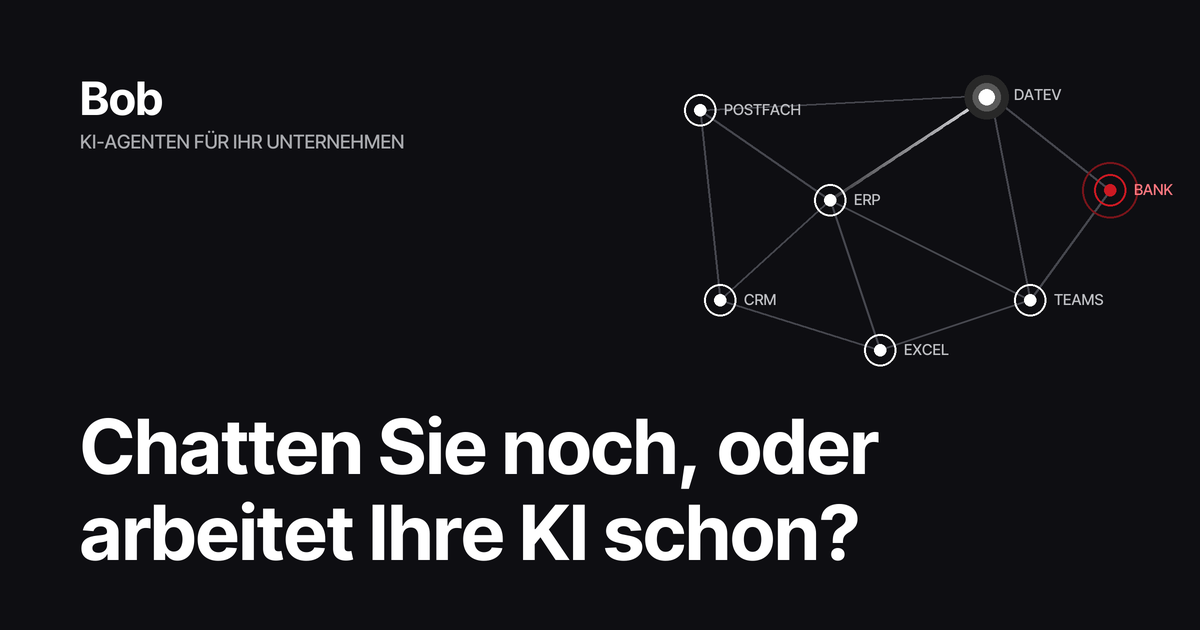
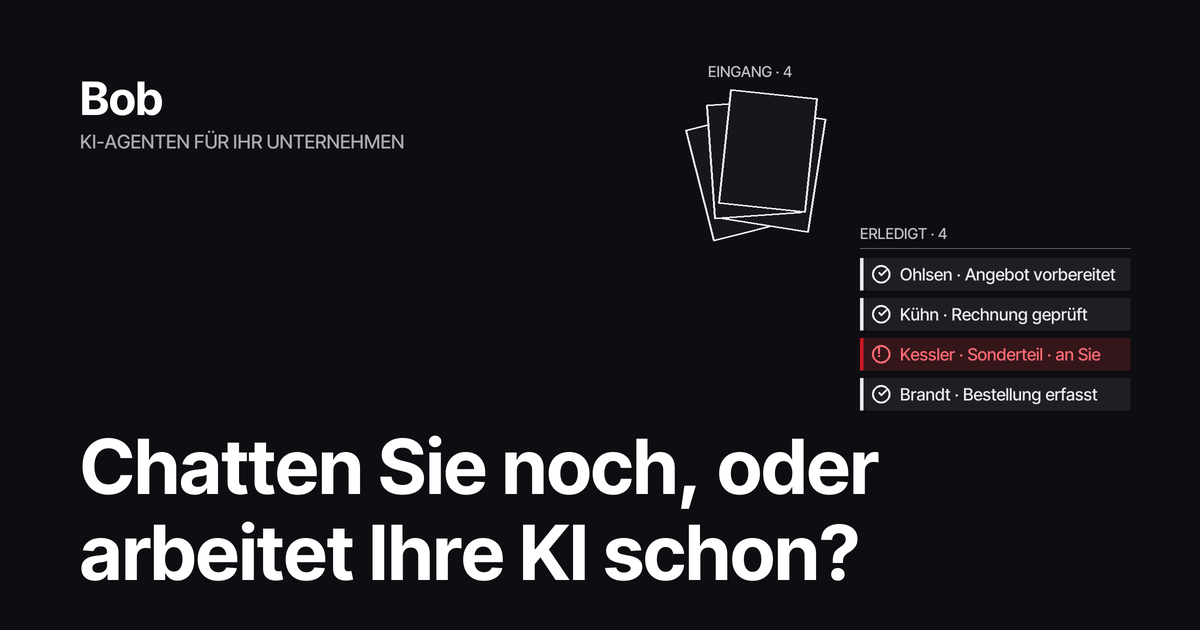
Aufmacher: Stapel wird zu Liste
Ein unordentlicher Stapel aus Mails, PDFs, Listen und Notizen; Bob zieht
Blatt für Blatt heraus und legt es als erledigte Zeile ab, ein Fall geht
rot an Sie. Liste als HTML für scharfen Text, Anordnung nach
Bildschirmbreite, am Handy vier Zeilen. Vorschaubild angepasst,
Versionsstempel auf Sekunden.

diff --git a/hero3d.js b/hero3d.js
@@ -1,96 +1,99 @@
-/* Aufmacher: Bob in Ihren Systemen. Knoten = Systeme, Bob wandert die Verbindungen entlang,
-   Abweichungen leuchten rot, Bob läuft hin und klärt sie. three.js r128, pausiert außerhalb des Sichtfelds. */
+/* Aufmacher: Stapel wird zu Liste. Ein unordentlicher Stapel aus Mails, PDFs, Listen und Notizen;
+   Bob zieht Blatt für Blatt heraus und legt es rechts als erledigte Zeile ab. Ein Fall geht rot an Sie.
+   three.js r128, Liste als HTML für scharfen Text, pausiert außerhalb des Sichtfelds. */
 (function(){
   var host=document.getElementById('hero3d');
-  if(!host||!window.THREE)return; var T=THREE;
-  var labels=document.createElement('div');labels.className='h-labels';host.appendChild(labels);
-  var logEl=document.createElement('ol');logEl.className='h-log';logEl.setAttribute('aria-hidden','true');(host.parentNode||host).appendChild(logEl);
+  if(!host||!window.THREE)return;var T=THREE;
   var reduce=window.matchMedia&&matchMedia('(prefers-reduced-motion: reduce)').matches;
   var renderer;try{renderer=new T.WebGLRenderer({antialias:true,alpha:true});}catch(e){return;}
   renderer.setPixelRatio(Math.min(devicePixelRatio||1,2));renderer.setClearColor(0,0);host.appendChild(renderer.domElement);
-  var scene=new T.Scene();scene.fog=new T.Fog(0x0e0e12,12,30);
+  var labels=document.createElement('div');labels.className='h-labels';host.appendChild(labels);
+  var scene=new T.Scene();scene.fog=new T.Fog(0x0e0e12,13,30);
   var camera=new T.PerspectiveCamera(34,1,.1,100),look=new T.Vector3(),camBase=new T.Vector3();
-  var WHITE=0xffffff,RED=0xcc1922;
   var grid=new T.GridHelper(60,60,0x24252b,0x18191e);grid.position.y=-3.2;scene.add(grid);
-  var world=new T.Group();scene.add(world);
-  var N=[['Postfach',1.0,2.1,.5],['ERP',3.3,.8,-.8],['DATEV',5.4,2.3,.2],['Teams',5.9,-.5,.9],['CRM',1.7,-1.1,1.1],['Excel',3.9,-2.1,-.4],['Bank',7.0,1.0,-1.2]];
-  var E=[[0,1],[0,4],[0,2],[1,2],[1,4],[1,5],[1,3],[2,6],[2,3],[3,5],[4,5],[6,3]];
-  var VISIT=['Anfragen gelesen','Preise und Termine geprüft','Rechnung kontiert','Innendienst informiert','Angebot nachgefasst','Liste abgeglichen','Zahlung zugeordnet'];
-  var ALERT=['Reklamation mit Frist','Liefertermin verschoben','Rechnung ohne Bestellung','Freigabe offen','Angebot läuft aus','Preis weicht ab','Zahlung fehlt'];
-  var nodes=N.map(function(n,i){
-    var g=new T.Group();g.position.set(n[1],n[2],n[3]);
-    var core=new T.Mesh(new T.SphereGeometry(.11,24,16),new T.MeshBasicMaterial({color:WHITE}));
-    var ring=new T.Mesh(new T.RingGeometry(.26,.285,48),new T.MeshBasicMaterial({color:WHITE,transparent:true,opacity:.35,side:T.DoubleSide}));
-    var pulse=new T.Mesh(new T.RingGeometry(.26,.3,48),new T.MeshBasicMaterial({color:WHITE,transparent:true,opacity:0,side:T.DoubleSide}));
-    g.add(core,ring,pulse);world.add(g);
-    var el=document.createElement('div');el.className='h-lb';el.textContent=n[0];labels.appendChild(el);
-    return {name:n[0],g:g,core:core,ring:ring,pulse:pulse,p:0,el:el,alert:false,nb:[]};
-  });
-  E.forEach(function(e){nodes[e[0]].nb.push(e[1]);nodes[e[1]].nb.push(e[0]);});
-  var edgeMat=new T.LineBasicMaterial({color:WHITE,transparent:true,opacity:.18});
-  E.forEach(function(e){var a=nodes[e[0]].g.position,b=nodes[e[1]].g.position;world.add(new T.Line(new T.BufferGeometry().setFromPoints([a,b]),edgeMat));});
-  /* Glow-Textur für Bob */
+  var MONO='"IBM Plex Mono", ui-monospace, monospace';
+  function docTex(kind,red){var c=document.createElement('canvas');c.width=256;c.height=340;var x=c.getContext('2d');
+    x.fillStyle='rgba(22,23,29,0.94)';x.fillRect(0,0,256,340);x.strokeStyle=red?'#CC1922':'rgba(255,255,255,0.9)';x.lineWidth=5;x.strokeRect(4,4,248,332);
+    x.fillStyle=red?'#FF4D57':'#fff';x.font='600 30px '+MONO;x.fillText(kind,22,52);
+    x.fillStyle='rgba(255,255,255,0.28)';[[86,190],[118,150],[150,200],[182,120],[214,170],[246,140]].forEach(function(r){x.fillRect(22,r[0],r[1],10);});
+    if(kind==='MAIL'){x.strokeStyle='rgba(255,255,255,0.5)';x.lineWidth=3;x.strokeRect(170,24,62,42);x.beginPath();x.moveTo(170,24);x.lineTo(201,48);x.lineTo(232,24);x.stroke();}
+    if(kind==='XLS'){x.strokeStyle='rgba(255,255,255,0.35)';x.lineWidth=2;for(var r2=0;r2<4;r2++)for(var c2=0;c2<4;c2++)x.strokeRect(22+c2*52,270+r2*14,52,14);}
+    var t=new T.CanvasTexture(c);t.anisotropy=4;return t;}
+  var KINDS=['MAIL','PDF','XLS','SCAN','NOTIZ','PDF','MAIL'];
+  var ROWS=[['Ohlsen · Angebot vorbereitet',0],['Kühn · Rechnung geprüft',0],['Kessler · Sonderteil · an Sie',1],['Brandt · Bestellung erfasst',0],['Stahl Peters · Termin bestätigt',0],['Jansen · Angebot vorbereitet',0],['Lenz · Preis abgeglichen',0],
+            ['Meyer · Lieferschein zugeordnet',0],['Nord · Reklamation aufgenommen',0],['Brandt · Zahlung zugeordnet',0],['Kühn · Dublette · an Sie',1],['Ohlsen · Rückfrage beantwortet',0],['Jansen · Auftrag bestätigt',0],['Lenz · Gutschrift geprüft',0]];
+  var NR=7,S=new T.Vector3(),LA=new T.Vector3(),LP={x:0,y:0};
+  /* HTML-Liste */
+  var list=document.createElement('div');list.className='h-list';list.innerHTML='<div class="h-list-h">Erledigt · <b>0</b></div><ol></ol>';labels.appendChild(list);
+  var ol=list.querySelector('ol'),cnt=list.querySelector('b');
+  var lbIn=document.createElement('div');lbIn.className='h-lb';labels.appendChild(lbIn);
+  var docGeo=new T.PlaneGeometry(.8,1.06),docs=[],batch=0,order=[];
+  function mkDocs(){docs.forEach(function(d){scene.remove(d.m);});docs=[];order=[];NR=mobile?4:7;
+    for(var i=0;i<NR;i++){var r=ROWS[(batch*NR+i)%ROWS.length];
+      var m=new T.Mesh(docGeo,new T.MeshBasicMaterial({map:docTex(KINDS[(i+batch)%KINDS.length],false),transparent:true,depthWrite:false,side:T.DoubleSide}));
+      var d={m:m,red:!!r[1],txt:r[0],kind:KINDS[(i+batch)%KINDS.length],ph:Math.random()*6,off:new T.Vector3((Math.random()-.5)*.7,i*.09,-i*.04+(Math.random()-.5)*.2),
+        rot:new T.Euler((Math.random()-.5)*.5,(Math.random()-.5)*.6,(Math.random()-.5)*1.1)};
+      m.position.copy(S).add(d.off).add(new T.Vector3(0,6+i*.6,0));m.rotation.copy(d.rot);m.renderOrder=i;scene.add(m);docs.push(d);}
+    /* Reihenfolge so wählen, dass die Liste von oben nach unten der ROWS-Reihenfolge folgt */
+    for(var j=NR-1;j>=0;j--)order.push(docs[j]);
+    order.forEach(function(d,k){var r=ROWS[(batch*NR+k)%ROWS.length];d.txt=r[0];d.red=!!r[1];});
+    batch++;}
+  function addRow(d){var li=document.createElement('li');if(d.red)li.className='r';li.innerHTML='<i>'+(d.red?'!':'✓')+'</i><span>'+d.txt+'</span>';ol.appendChild(li);cnt.textContent=ol.children.length;}
+  /* Bob */
   var cv=document.createElement('canvas');cv.width=cv.height=64;var cx=cv.getContext('2d'),gr=cx.createRadialGradient(32,32,0,32,32,32);
   gr.addColorStop(0,'rgba(255,255,255,1)');gr.addColorStop(.25,'rgba(255,255,255,.55)');gr.addColorStop(1,'rgba(255,255,255,0)');cx.fillStyle=gr;cx.fillRect(0,0,64,64);
-  var glowTex=new T.CanvasTexture(cv);
-  var bob=new T.Group();var bobCore=new T.Mesh(new T.SphereGeometry(.09,20,14),new T.MeshBasicMaterial({color:WHITE}));
-  var glow=new T.Sprite(new T.SpriteMaterial({map:glowTex,color:WHITE,transparent:true,depthWrite:false,blending:T.AdditiveBlending}));glow.scale.set(1.1,1.1,1);
-  bob.add(bobCore,glow);world.add(bob);
-  /* Spur */
-  var TL=70,tp=new Float32Array(TL*3),tc=new Float32Array(TL*3),tg=new T.BufferGeometry();
-  tg.setAttribute('position',new T.BufferAttribute(tp,3));tg.setAttribute('color',new T.BufferAttribute(tc,3));
-  var trail=new T.Line(tg,new T.LineBasicMaterial({vertexColors:true,transparent:true,opacity:.9}));world.add(trail);var hist=[];
-  /* Datenpakete */
-  var pk=[],pkGeo=new T.SphereGeometry(.035,8,6);
-  function packet(){var e=E[(Math.random()*E.length)|0],f=Math.random()<.5;var m=new T.Mesh(pkGeo,new T.MeshBasicMaterial({color:WHITE,transparent:true,opacity:.6}));world.add(m);pk.push({m:m,a:nodes[f?e[0]:e[1]].g.position,b:nodes[f?e[1]:e[0]].g.position,t:0,d:1.2+Math.random()});}
-  /* Logik */
-  var cur=0,prev=-1,to=1,t0=0,dur=1,clock=7*60+42,tm=0,alertAt=-1;
-  bob.position.copy(nodes[0].g.position);
-  function hhmm(){var h=(clock/60|0),m=clock%60;return (h<10?'0':'')+h+':'+(m<10?'0':'')+m;}
-  function log(txt,red){var li=document.createElement('li');if(red)li.className='r';li.innerHTML='<time>'+hhmm()+'</time><span>'+txt+'</span>';logEl.insertBefore(li,logEl.firstChild);while(logEl.children.length>4)logEl.removeChild(logEl.lastChild);}
-  function path(a,b){var q=[a],from={};from[a]=-1;while(q.length){var x=q.shift();if(x===b)break;nodes[x].nb.forEach(function(y){if(!(y in from)){from[y]=x;q.push(y);}});}var p=[],x=b;while(x!==a&&x!==-1&&x!==undefined){p.unshift(x);x=from[x];}return p;}
-  function pick(){if(alertAt>=0&&alertAt!==cur){return path(cur,alertAt)[0];}var nb=nodes[cur].nb.filter(function(n){return n!==prev;});return nb[(Math.random()*nb.length)|0];}
-  function depart(now){prev=cur;to=pick();var d=nodes[cur].g.position.distanceTo(nodes[to].g.position);dur=d/2.4;t0=now;}
-  function arrive(now){cur=to;var n=nodes[cur];n.p=1;clock+=1+(Math.random()*2|0);
-    if(n.alert){n.alert=false;alertAt=-1;setCol(n,WHITE);log(n.name+' · Rückfrage vorbereitet ✓',false);}
-    else log(n.name+' · '+VISIT[cur],false);
-    depart(now+.35);}
-  function setCol(n,c){n.core.material.color.setHex(c);n.ring.material.color.setHex(c);n.pulse.material.color.setHex(c);n.el.classList.toggle('r',c===RED);}
-  function raise(){var c=[];nodes.forEach(function(n,i){if(i!==cur&&i!==to&&!n.alert)c.push(i);});var i=c[(Math.random()*c.length)|0];nodes[i].alert=true;alertAt=i;setCol(nodes[i],RED);clock+=1;log(nodes[i].name+' · '+ALERT[i],true);}
-  /* Größe und Kamera */
-  function size(){var w=host.clientWidth||1,h=host.clientHeight||1;renderer.setSize(w,h,false);camera.aspect=w/h;
-    if(camera.aspect<.9){camera.fov=50;camBase.set(4.0,1.6,17);look.set(4.0,-4.3,0);}else{camera.fov=34;camBase.set(-3.2,1.6,15);look.set(-.4,-.6,0);}camera.updateProjectionMatrix();}
+  var bob=new T.Group(),glow=new T.Sprite(new T.SpriteMaterial({map:new T.CanvasTexture(cv),transparent:true,depthWrite:false,blending:T.AdditiveBlending}));
+  bob.add(new T.Mesh(new T.SphereGeometry(.08,20,14),new T.MeshBasicMaterial({color:0xffffff})),glow);scene.add(bob);
+  /* Kamera und Anordnung */
+  var v=new T.Vector3(),tmp=new T.Vector3(),dir=new T.Vector3();
+  var mobile=false;
+  function size(){var w=host.clientWidth||1,h=host.clientHeight||1;renderer.setSize(w,h,false);camera.aspect=w/h;mobile=camera.aspect<.9;
+    camera.fov=mobile?44:34;camBase.set(0,.6,15);look.set(0,0,0);camera.updateProjectionMatrix();
+    camera.position.copy(camBase);camera.lookAt(look);camera.updateMatrixWorld();
+    /* Anordnung in Bildschirm-Anteilen: Stapel oben, Liste darunter, bündig mit dem Inhaltsrand */
+    var cr=Math.min(w-16,(w+1180)/2-Math.max(16,Math.min(48,w*.04))),lw=list.offsetWidth||300;
+    if(mobile){LP.x=Math.max(16,w*.36);LP.y=h*.07;toWorld(w*.17,h*.2,S);}
+    else{LP.x=cr-lw;LP.y=h*.38;toWorld(LP.x+lw*.42,h*.2,S);}
+    toWorld(LP.x+lw,LP.y+h*.3,LA);}
   size();if('ResizeObserver' in window)new ResizeObserver(size).observe(host);else addEventListener('resize',size);
   var mx=0,my=0;addEventListener('pointermove',function(e){mx=e.clientX/innerWidth*2-1;my=e.clientY/innerHeight*2-1;},{passive:true});
-  var v=new T.Vector3(),last=performance.now()/1000,nextAlert=4,nextPk=0;
-  depart(0);
+  function proj(p){v.copy(p).project(camera);return {x:(v.x*.5+.5)*host.clientWidth,y:(-v.y*.5+.5)*host.clientHeight};}
+  function toWorld(px,py,out){v.set(px/host.clientWidth*2-1,-(py/host.clientHeight)*2+1,.5).unproject(camera);dir.copy(v).sub(camera.position).normalize();var t=-camera.position.z/dir.z;return out.copy(camera.position).addScaledVector(dir,t);}
+  function slotWorld(i,out){var h=list.querySelector('.h-list-h').offsetHeight,lw=list.offsetWidth;
+    var rowH=parseFloat(getComputedStyle(list).getPropertyValue('--row'))||36;
+    return toWorld(LP.x+lw*.5,LP.y+h+10+i*rowH+rowH*.45,out);}
+  function ease(k){return k<.5?2*k*k:1-Math.pow(-2*k+2,2)/2;}
+  function bez(a,b,h,k,out){var c=tmp.set((a.x+b.x)/2,Math.max(a.y,b.y)+h,(a.z+b.z)/2+.8),u=1-k;return out.set(u*u*a.x+2*u*k*c.x+k*k*b.x,u*u*a.y+2*u*k*c.y+k*k*b.y,u*u*a.z+2*u*k*c.z+k*k*b.z);}
+  var st='drop',t0=0,tm=0,last=0,cur=null,from=new T.Vector3(),to=new T.Vector3(),hold=new T.Vector3();
+  mkDocs();bob.position.set(S.x+1.2,S.y+3,.6);
   function step(now){var dt=Math.min(.05,Math.max(0,now-last));last=now;tm+=dt;
     camera.position.x+=(camBase.x+mx*1.0-camera.position.x)*.04;camera.position.y+=(camBase.y-my*.6-camera.position.y)*.04;camera.position.z=camBase.z;camera.lookAt(look);
-    world.rotation.y=Math.sin(tm*.12)*.12;
-    /* Bob */
-    if(tm>=t0){var k=Math.min(1,(tm-t0)/dur),e=k<.5?2*k*k:1-Math.pow(-2*k+2,2)/2;bob.position.lerpVectors(nodes[cur].g.position,nodes[to].g.position,e);if(k>=1)arrive(tm);}
+    docs.forEach(function(d,i){if(d===cur||d.gone)return;var tg=hold.copy(S).add(d.off);tg.y+=Math.sin(tm*1.2+d.ph)*.03;d.m.position.lerp(tg,st==='drop'?.06+i*.004:.12);d.m.rotation.z+=(d.rot.z+Math.sin(tm*.8+d.ph)*.03-d.m.rotation.z)*.1;});
+    var nxt=null;for(var i=0;i<order.length;i++){if(!order[i].gone){nxt=order[i];break;}}
+    if(st==='drop'){if(tm-t0>1.6){st='fetch';t0=tm;from.copy(bob.position);}}
+    else if(st==='fetch'){if(!nxt){st='hold';t0=tm;}else{var k=ease(Math.min(1,(tm-t0)/.55));bob.position.lerpVectors(from,hold.copy(nxt.m.position).add(tmp.set(0,.65,.15)),k);
+        if(k>=1){cur=nxt;st='carry';t0=tm;from.copy(cur.m.position);slotWorld(ol.children.length,to);if(cur.red){cur.m.material.map=docTex(cur.kind,true);cur.m.material.needsUpdate=true;}}}}
+    else if(st==='carry'){var k2=ease(Math.min(1,(tm-t0)/1.05));bez(from,to,1.0,k2,cur.m.position);cur.m.rotation.x*=.9;cur.m.rotation.y*=.9;cur.m.rotation.z*=.88;
+      var s=1-k2*.6;cur.m.scale.set(s,s,s);cur.m.material.opacity=k2<.75?1:Math.max(0,1-(k2-.75)/.25);
+      bob.position.copy(cur.m.position).add(tmp.set(0,.5*s,.1));
+      if(k2>.8&&!cur.added){cur.added=true;addRow(cur);}
+      if(k2>=1){cur.gone=true;scene.remove(cur.m);cur=null;st=ol.children.length>=NR?'hold':'fetch';t0=tm;from.copy(bob.position);}}
+    else if(st==='hold'){bob.position.lerp(hold.copy(LA).add(tmp.set(.3,0,.4)),.04);if(tm-t0>2.6){st='clear';t0=tm;list.classList.add('out');}}
+    else if(st==='clear'){if(tm-t0>.6){ol.innerHTML='';cnt.textContent='0';list.classList.remove('out');mkDocs();st='drop';t0=tm;}}
     glow.scale.setScalar(1+Math.sin(tm*5)*.08);
-    hist.unshift(bob.position.clone());if(hist.length>TL)hist.pop();
-    for(var i=0;i<TL;i++){var p=hist[Math.min(i,hist.length-1)],f=1-i/TL;tp[i*3]=p.x;tp[i*3+1]=p.y;tp[i*3+2]=p.z;tc[i*3]=tc[i*3+1]=tc[i*3+2]=f*f;}
-    tg.attributes.position.needsUpdate=true;tg.attributes.color.needsUpdate=true;
-    /* Knoten */
-    nodes.forEach(function(n){n.p*=.94;var s=1+(1-n.p)*1.6;n.pulse.scale.setScalar(n.alert?1+((tm*1.4)%1)*1.4:s);n.pulse.material.opacity=n.alert?(1-((tm*1.4)%1))*.8:n.p*.7;
-      n.ring.lookAt(camera.position);n.pulse.lookAt(camera.position);n.core.scale.setScalar(n.alert?1.25+Math.sin(tm*6)*.15:1+n.p*.5);});
-    if(alertAt<0&&tm>nextAlert){raise();nextAlert=tm+9+Math.random()*4;}
-    if(tm>nextPk){packet();nextPk=tm+.35;}
-    for(var j=pk.length-1;j>=0;j--){var q=pk[j];q.t+=dt/q.d;q.m.position.lerpVectors(q.a,q.b,q.t);q.m.material.opacity=Math.sin(Math.PI*Math.min(1,q.t))*.6;if(q.t>=1){world.remove(q.m);q.m.material.dispose();pk.splice(j,1);}}
     renderer.render(scene,camera);
-    /* Beschriftungen */
-    var W=host.clientWidth,H=host.clientHeight;nodes.forEach(function(n){n.g.getWorldPosition(v);v.project(camera);n.el.style.transform='translate('+((v.x*.5+.5)*W+14)+'px,'+((-v.y*.5+.5)*H-8)+'px)';});
+    list.style.transform='translate('+LP.x+'px,'+LP.y+'px)';
+    var left=docs.filter(function(d){return !d.gone&&d!==cur;}).length,b=proj(hold.copy(S).add(tmp.set(-.5,1.05,0)));
+    lbIn.style.transform='translate('+b.x+'px,'+b.y+'px)';lbIn.textContent='Eingang · '+left;
   }
-  last=0;for(var w=0;w<240;w++)step(w/60);
-  log('Postfach · '+VISIT[0]);
-  if(reduce){renderer.render(scene,camera);return;}
-  var base=performance.now()/1000-tm,running=false,raf=0,pausedAt=0;last=tm;
+  for(var w=0;w<30;w++)step(w/60);
+  if(reduce){for(var q=0;q<NR;q++)addRow(order[q]);order.forEach(function(d){d.gone=true;scene.remove(d.m);});step(tm+.01);renderer.render(scene,camera);return;}
+  var base=performance.now()/1000-tm,running=false,raf=0,pausedAt=performance.now()/1000;last=tm;
   function loop(){step(performance.now()/1000-base);raf=requestAnimationFrame(loop);}
   function start(){if(running)return;running=true;base+=performance.now()/1000-pausedAt;last=performance.now()/1000-base;raf=requestAnimationFrame(loop);}
   function stop(){if(!running)return;running=false;pausedAt=performance.now()/1000;cancelAnimationFrame(raf);}
-  pausedAt=performance.now()/1000;
+  function vis(){var r=host.getBoundingClientRect();return r.bottom>0&&r.top<(innerHeight||document.documentElement.clientHeight);}
   if('IntersectionObserver' in window){new IntersectionObserver(function(es){es[0].isIntersecting?start():stop();},{threshold:.05}).observe(host);}else start();
+  function chk(){if(!document.hidden&&vis())start();}chk();addEventListener('load',chk);addEventListener('scroll',chk,{passive:true});
   document.addEventListener('visibilitychange',function(){document.hidden?stop():start();});
 })();

diff --git a/glossar.html b/glossar.html
@@ -21,7 +21,7 @@
 <title>KI-Glossar · Bob</title>
 <meta name="description" content="KI-Glossar für den Mittelstand: KI-Agent, LLM, RAG, Halluzination, AVV, KI-Verordnung und weitere Begriffe kurz und verständlich erklärt.">
 <link rel="stylesheet" href="fonts/fonts.css">
-<link rel="stylesheet" href="site.css?v=202610271215">
+<link rel="stylesheet" href="site.css?v=20261027123641">
 <script type="application/ld+json">{"@context": "https://schema.org", "@type": "DefinedTermSet", "name": "KI-Glossar für den Mittelstand", "inLanguage": "de", "url": "https://torbenbob.github.io/ai/glossar", "hasDefinedTerm": [{"@type": "DefinedTerm", "name": "Agentic AI", "description": "Sammelbegriff für KI-Systeme, die handeln statt nur antworten. Im Deutschen meist „agentische KI“. 2026 setzen laut Bitkom 11 % der Unternehmen ab 20 Beschäftigten Agenten ein.", "url": "https://torbenbob.github.io/ai/glossar#agentic-ai"}, {"@type": "DefinedTerm", "name": "API", "description": "Programmierschnittstelle, über die Systeme automatisch Daten austauschen. Schnittstellen zu alten ERP-Systemen sind oft teuer und langsam einzurichten. Ein Dateiexport ist für den Start meist besser.", "url": "https://torbenbob.github.io/ai/glossar#api"}, {"@type": "DefinedTerm", "name": "AVV (Auftragsverarbeitungsvertrag)", "description": "Vertrag nach Art. 28 DSGVO zwischen Ihnen und einem Dienstleister, der personenbezogene Daten in Ihrem Auftrag verarbeitet. Er regelt Zweck, Sicherheit, Unterauftragnehmer und Löschung.", "url": "https://torbenbob.github.io/ai/glossar#avv"}, {"@type": "DefinedTerm", "name": "AWS Bedrock", "description": "Dienst von Amazon Web Services, über den Sprachmodelle wie Claude in AWS-Rechenzentren genutzt werden, auch in europäischen Regionen. Eingaben werden nicht zum Training verwendet.", "url": "https://torbenbob.github.io/ai/glossar#aws-bedrock"}, {"@type": "DefinedTerm", "name": "Chatbot", "description": "Programm, das im Dialog Fragen beantwortet. Nützlich für Texte und Recherche, aber ohne Zugriff auf Ihre Bestellungen, Rechnungen oder Ihr ERP prüft es nichts gegen Ihre Daten.", "url": "https://torbenbob.github.io/ai/glossar#chatbot"}, {"@type": "DefinedTerm", "name": "Copilot", "description": "Assistent, der neben einem Programm mitläuft und Vorschläge macht, etwa Microsoft 365 Copilot. Der Mensch bleibt am Steuer jeder einzelnen Aktion. Ein Agent übernimmt dagegen einen ganzen Vorgang.", "url": "https://torbenbob.github.io/ai/glossar#copilot"}, {"@type": "DefinedTerm", "name": "Datenexport (CSV)", "description": "Eine Liste aus Ihrem System als Datei, etwa offene Bestellungen als Excel oder CSV. Fast jedes ERP kann das von Haus aus. Für einen Agenten ist das der schnellste und sicherste Zugang zu Ihren Daten.", "url": "https://torbenbob.github.io/ai/glossar#datenexport"}, {"@type": "DefinedTerm", "name": "Dokumentenerkennung (OCR)", "description": "Umwandlung gescannter oder fotografierter Dokumente in maschinenlesbaren Text. Moderne Sprachmodelle lesen PDFs direkt und verstehen, welcher Wert der Liefertermin und welcher die Menge ist.", "url": "https://torbenbob.github.io/ai/glossar#dokumentenerkennung"}, {"@type": "DefinedTerm", "name": "DSGVO", "description": "Datenschutz-Grundverordnung der EU. Sie gilt für jede Verarbeitung personenbezogener Daten, auch durch KI. Bei Geschäftsdokumenten wie Auftragsbestätigungen sind meist nur Ansprechpartner betroffen.", "url": "https://torbenbob.github.io/ai/glossar#dsgvo"}, {"@type": "DefinedTerm", "name": "ERP", "description": "Enterprise Resource Planning, die zentrale Unternehmenssoftware für Bestellungen, Lager, Aufträge und Rechnungen, etwa proALPHA, abas, SAP Business One oder Sage.", "url": "https://torbenbob.github.io/ai/glossar#erp"}, {"@type": "DefinedTerm", "name": "EU-Hosting", "description": "Speicherung und Verarbeitung von Daten in Rechenzentren innerhalb der EU. Wichtig ist, dass nicht nur die Daten, sondern auch die Modellaufrufe in der EU laufen.", "url": "https://torbenbob.github.io/ai/glossar#eu-hosting"}, {"@type": "DefinedTerm", "name": "Fine-Tuning", "description": "Nachtrainieren eines Modells mit eigenen Beispielen. Für die meisten Büro-Vorgänge im Mittelstand unnötig: Gute Anweisungen, Regeln und Ihre Daten im Kontext reichen.", "url": "https://torbenbob.github.io/ai/glossar#fine-tuning"}, {"@type": "DefinedTerm", "name": "Freigabe", "description": "Der Schritt, in dem ein Mitarbeiter den Vorschlag des Agenten bestätigt oder ändert. Sie hält die Verantwortung dort, wo sie hingehört, und hält Fehlerkosten klein.", "url": "https://torbenbob.github.io/ai/glossar#freigabe"}, {"@type": "DefinedTerm", "name": "Generative KI", "description": "KI, die neue Inhalte erzeugt: Text, Bilder, Code. Grundlage sind große Sprach- oder Bildmodelle. Im Mittelstand wird sie heute vor allem zum Schreiben genutzt (KfW: 14 %), kaum zur Prüfung eigener Daten (3 %).", "url": "https://torbenbob.github.io/ai/glossar#generative-ki"}, {"@type": "DefinedTerm", "name": "Halluzination", "description": "Eine plausibel klingende, aber falsche Ausgabe eines Sprachmodells. Dagegen helfen Abgleich mit echten Daten, feste Regeln und eine menschliche Freigabe vor jeder Wirkung nach außen.", "url": "https://torbenbob.github.io/ai/glossar#halluzination"}, {"@type": "DefinedTerm", "name": "Human in the Loop", "description": "Prinzip, bei dem ein Mensch an festgelegten Stellen entscheidet, bevor etwas nach außen wirkt: eine Mail rausgeht, gebucht oder bezahlt wird.", "url": "https://torbenbob.github.io/ai/glossar#human-in-the-loop"}, {"@type": "DefinedTerm", "name": "Inferenz", "description": "Der Moment, in dem ein trainiertes Modell eine Antwort berechnet. Für den Datenschutz entscheidend ist, wo die Inferenz läuft, also in welchem Rechenzentrum Ihre Daten verarbeitet werden.", "url": "https://torbenbob.github.io/ai/glossar#inferenz"}, {"@type": "DefinedTerm", "name": "KI-Agent", "description": "Software, die mit einem Sprachmodell eine Aufgabe selbstständig in mehreren Schritten erledigt: Dokument lesen, mit Daten abgleichen, Ergebnis vorbereiten. Anders als ein Chatbot wartet ein Agent nicht auf Fragen, sondern arbeitet einen Vorgang ab.", "url": "https://torbenbob.github.io/ai/glossar#ki-agent"}, {"@type": "DefinedTerm", "name": "KI-Kompetenz", "description": "Pflicht aus Art. 4 der KI-Verordnung: Betriebe sollen dafür sorgen, dass Mitarbeiter, die mit KI arbeiten, ausreichend geschult sind. Eine kurze, dokumentierte Unterweisung je Werkzeug ist ein guter Start.", "url": "https://torbenbob.github.io/ai/glossar#ki-kompetenz"}, {"@type": "DefinedTerm", "name": "KI-Verordnung (AI Act)", "description": "EU-Gesetz für Künstliche Intelligenz, das Pflichten nach Risiko staffelt. Büro-Agenten mit menschlicher Freigabe fallen in der Regel nicht unter die Hochrisiko-Regeln. Für die Auswahl von Bewerbern gelten dagegen strenge Pflichten.", "url": "https://torbenbob.github.io/ai/glossar#ki-verordnung"}, {"@type": "DefinedTerm", "name": "Kontextfenster", "description": "Die Textmenge, die ein Modell auf einmal berücksichtigen kann, gemessen in Tokens. Moderne Modelle lesen ganze Verträge oder Bestelllisten am Stück.", "url": "https://torbenbob.github.io/ai/glossar#kontextfenster"}, {"@type": "DefinedTerm", "name": "LLM (Large Language Model)", "description": "Großes Sprachmodell, das auf riesigen Textmengen trainiert wurde und Sprache verstehen und erzeugen kann. Bekannte Modelle sind Claude, GPT oder Gemini. Das Modell ist der Motor, der Agent ist das Fahrzeug.", "url": "https://torbenbob.github.io/ai/glossar#llm"}, {"@type": "DefinedTerm", "name": "MCP (Model Context Protocol)", "description": "Offener Standard, über den KI-Modelle an Werkzeuge und Datenquellen angeschlossen werden, etwa an ein Postfach, eine Datenbank oder ein Ticketsystem. Ursprünglich von Anthropic vorgestellt, heute breit unterstützt.", "url": "https://torbenbob.github.io/ai/glossar#mcp"}, {"@type": "DefinedTerm", "name": "Parallelbetrieb", "description": "Phase, in der der Agent neben den Mitarbeitern läuft und beide Ergebnisse verglichen werden. So zeigt sich die Trefferquote, bevor sich jemand darauf verlässt.", "url": "https://torbenbob.github.io/ai/glossar#parallelbetrieb"}, {"@type": "DefinedTerm", "name": "Pilot", "description": "Begrenzter Einsatz unter echten Bedingungen mit echten Daten, bevor ein Agent dauerhaft läuft. Ein guter Pilot endet mit einer Zahl: gesparte Stunden, gefundene Fehler.", "url": "https://torbenbob.github.io/ai/glossar#pilot"}, {"@type": "DefinedTerm", "name": "Prompt", "description": "Die Anweisung an ein Sprachmodell. In einem Agenten sind Prompts fest eingebaut und getestet, damit das Ergebnis jeden Tag gleich zuverlässig ist, statt von der Formulierung einzelner Mitarbeiter abzuhängen.", "url": "https://torbenbob.github.io/ai/glossar#prompt"}, {"@type": "DefinedTerm", "name": "Proof of Concept", "description": "Kleiner Test, ob eine Idee technisch funktioniert. Laut MIT bringen 95 % der KI-Piloten keinen messbaren Ertrag, meist weil sie nie in einen echten Arbeitsablauf eingebaut werden.", "url": "https://torbenbob.github.io/ai/glossar#proof-of-concept"}, {"@type": "DefinedTerm", "name": "RAG (Retrieval-Augmented Generation)", "description": "Verfahren, bei dem das Modell vor der Antwort passende Dokumente aus einer eigenen Wissensbasis abruft. So antwortet es auf Basis Ihrer Unterlagen statt aus dem Gedächtnis.", "url": "https://torbenbob.github.io/ai/glossar#rag"}, {"@type": "DefinedTerm", "name": "RPA (Robotic Process Automation)", "description": "Software-Roboter, die feste Klickfolgen in Programmen nachspielen. Schnell bei immer gleichen Masken, aber anfällig, sobald sich ein Layout ändert. KI-Agenten lesen auch Dokumente, die jedes Mal anders aussehen.", "url": "https://torbenbob.github.io/ai/glossar#rpa"}, {"@type": "DefinedTerm", "name": "Schatten-KI", "description": "KI-Werkzeuge, die Mitarbeiter ohne Freigabe des Betriebs nutzen, meist private Chat-Konten. Laut IW Köln nutzen 29 % der beruflichen KI-Nutzer solche Tools. Firmendaten landen dabei außerhalb Ihrer Kontrolle.", "url": "https://torbenbob.github.io/ai/glossar#schatten-ki"}, {"@type": "DefinedTerm", "name": "Token", "description": "Recheneinheit von Sprachmodellen, grob ein Wortteil. Abgerechnet wird nach Tokens. Eine Auftragsbestätigung zu lesen kostet heute Bruchteile eines Cents.", "url": "https://torbenbob.github.io/ai/glossar#token"}, {"@type": "DefinedTerm", "name": "Training mit Kundendaten", "description": "Die Frage, ob ein Anbieter Ihre Eingaben nutzt, um seine Modelle zu verbessern. Bei Geschäftsverträgen über die Schnittstelle, etwa über AWS Bedrock, ist das ausgeschlossen. Bei privaten Chat-Konten oft nicht.", "url": "https://torbenbob.github.io/ai/glossar#training-mit-kundendaten"}, {"@type": "DefinedTerm", "name": "Trefferquote", "description": "Anteil der Fälle, die der Agent richtig erledigt. Gemessen über eine regelmäßige Stichprobe, die von Hand nachgeprüft wird.", "url": "https://torbenbob.github.io/ai/glossar#trefferquote"}, {"@type": "DefinedTerm", "name": "Workflow-Automatisierung", "description": "Verknüpfen von Schritten und Systemen nach festen Regeln, etwa mit n8n, Make oder Power Automate. Gut für strukturierte Daten. Mit einem Sprachmodell kombiniert entsteht daraus ein Agent.", "url": "https://torbenbob.github.io/ai/glossar#workflow-automatisierung"}]}</script>
 </head>
 <body>

diff --git a/site.css b/site.css
@@ -1142,6 +1142,21 @@ section{border-top:1px solid var(--line)}
 .nf{display:flex;flex-direction:column;gap:18px;align-items:flex-start}
 
 
+/* Aufmacher: Stapel wird zu Liste */
+.h-list{--row:38px;position:absolute;left:0;top:0;width:min(330px,28vw);will-change:transform;transition:opacity .5s}
+.h-list.out{opacity:0}
+.h-list-h{font-family:var(--ab-mono);font-size:.72rem;letter-spacing:.12em;text-transform:uppercase;color:rgba(255,255,255,.72);padding-bottom:8px;margin-bottom:10px;border-bottom:1px solid rgba(255,255,255,.25)}
+.h-list-h b{color:#fff;font-weight:500}
+.h-list ol{list-style:none;margin:0;padding:0}
+.h-list li{height:calc(var(--row) - 6px);margin-bottom:6px;display:grid;grid-template-columns:24px minmax(0,1fr);gap:10px;align-items:center;padding:0 12px 0 10px;background:rgba(255,255,255,.06);border-left:2px solid rgba(255,255,255,.85);font-family:var(--ab-mono);font-size:.76rem;color:rgba(255,255,255,.92);white-space:nowrap;animation:hRowIn .45s cubic-bezier(.2,.8,.2,1) both}
+.h-list li span{overflow:hidden;text-overflow:ellipsis}
+.h-list li i{font-style:normal;width:20px;height:20px;border-radius:50%;border:1.5px solid currentColor;display:flex;align-items:center;justify-content:center;font-size:.66rem;font-weight:700}
+.h-list li.r{background:rgba(204,25,34,.16);border-left-color:#CC1922;color:#FF6A72}
+@keyframes hRowIn{from{opacity:0;transform:translateX(-10px)}}
+@media (max-width:860px){.h-list{width:min(320px,62vw)}}
+@media (max-width:600px){.h-list{--row:32px;width:min(230px,60vw)}.h-list li{font-size:.66rem;gap:7px;padding:0 7px;letter-spacing:-.01em}.h-list li i{width:18px;height:18px}}
+@media (prefers-reduced-motion:reduce){.h-list li{animation:none}}
+
 /* Aufmacher: Bob in Ihren Systemen */
 .hero .stage3d{inset:0!important;height:auto!important}
 .h-labels{position:absolute;inset:0;pointer-events:none;z-index:1}

diff --git a/index.html b/index.html
@@ -21,7 +21,7 @@
 <meta name="description" content="Wir bauen eigene KI-Agenten und Dashboards für Ihr Unternehmen und begleiten sie, bis sie vollständig laufen.">
 <title>Bob · KI-Agenten für Ihr Unternehmen</title>
 <link rel="stylesheet" href="fonts/fonts.css">
-<link rel="stylesheet" href="site.css?v=202610271215">
+<link rel="stylesheet" href="site.css?v=20261027123641">
 </head>
 <body>
 <header class="top">
@@ -310,7 +310,7 @@ document.querySelectorAll('.cpbtn').forEach(function(btn){btn.addEventListener('
 })();
 </script>
 <script src="three.min.js"></script>
-<script src="hero3d.js?v=202610271215"></script>
+<script src="hero3d.js?v=20261027123641"></script>
 
 </body>
 </html>

diff --git a/blog/schatten-ki.html b/blog/schatten-ki.html
@@ -21,7 +21,7 @@
 <title>Ihre Leute sind schneller als Ihr Betrieb. · Bob</title>
 <meta name="description" content="IW Köln: 29 % der beruflichen KI-Nutzer arbeiten mit Tools, die der Betrieb nicht bereitgestellt hat. Je mehr der Chef KI fördert, desto mehr.">
 <link rel="stylesheet" href="../fonts/fonts.css">
-<link rel="stylesheet" href="../site.css?v=202610271215">
+<link rel="stylesheet" href="../site.css?v=20261027123641">
 
 </head>
 <body>

diff --git a/agenten.html b/agenten.html
@@ -21,7 +21,7 @@
 <title>Agenten · Bob</title>
 <meta name="description" content="Individuell gebaute KI-Agenten für Ihr Unternehmen. Drei Wirkungsbereiche: Eingang verarbeiten, prüfen und abgleichen, Termine überwachen. Dazu Antworten auf die häufigsten Fragen.">
 <link rel="stylesheet" href="fonts/fonts.css">
-<link rel="stylesheet" href="site.css?v=202610271215">
+<link rel="stylesheet" href="site.css?v=20261027123641">
 
 </head>
 <body>

diff --git a/blog/dreimal.html b/blog/dreimal.html
@@ -21,7 +21,7 @@
 <title>Dreimal so stark. · Bob</title>
 <meta name="description" content="PwC AI Jobs Barometer 2026: Umsatz je Mitarbeiter wächst in KI-intensiven Branchen dreimal so schnell. Die Fertigung sucht KI-Leute, nutzt KI aber kaum.">
 <link rel="stylesheet" href="../fonts/fonts.css">
-<link rel="stylesheet" href="../site.css?v=202610271215">
+<link rel="stylesheet" href="../site.css?v=20261027123641">
 
 </head>
 <body>

diff --git a/blog/langweilige-agenten.html b/blog/langweilige-agenten.html
@@ -21,7 +21,7 @@
 <title>Die spannendsten Agenten sind langweilig. Gut so. · Bob</title>
 <meta name="description" content="Warum produktive KI-Agenten im Mittelstand unspektakuläre Vorgänge erledigen, und was das für den ersten Bob heißt.">
 <link rel="stylesheet" href="../fonts/fonts.css">
-<link rel="stylesheet" href="../site.css?v=202610271215">
+<link rel="stylesheet" href="../site.css?v=20261027123641">
 
 </head>
 <body>

diff --git a/blog/schere.html b/blog/schere.html
@@ -21,7 +21,7 @@
 <title>Die Schere geht auf. · Bob</title>
 <meta name="description" content="KfW Research zeigt: KI-nutzende Mittelständler sind rentabler, und der Vorsprung konzentriert sich bei den ohnehin Starken.">
 <link rel="stylesheet" href="../fonts/fonts.css">
-<link rel="stylesheet" href="../site.css?v=202610271215">
+<link rel="stylesheet" href="../site.css?v=20261027123641">
 
 </head>
 <body>

diff --git a/blog/sechs-prozent.html b/blog/sechs-prozent.html
@@ -21,7 +21,7 @@
 <title>Sechs Prozent. · Bob</title>
 <meta name="description" content="McKinsey State of AI 2026: Fast alle setzen KI ein, 37 % sehen einen Ergebniseffekt, 6 % holen etwas Nennenswertes heraus.">
 <link rel="stylesheet" href="../fonts/fonts.css">
-<link rel="stylesheet" href="../site.css?v=202610271215">
+<link rel="stylesheet" href="../site.css?v=20261027123641">
 
 </head>
 <body>

diff --git a/dashboards.html b/dashboards.html
@@ -21,7 +21,7 @@
 <title>Dashboards · Bob</title>
 <meta name="description" content="Dashboards aus Ihren Daten: direkt aus ERP, DATEV, CRM und Bank, jeden Morgen aktuell. Bob erklärt, warum sich eine Zahl bewegt.">
 <link rel="stylesheet" href="fonts/fonts.css">
-<link rel="stylesheet" href="site.css?v=202610271215">
+<link rel="stylesheet" href="site.css?v=20261027123641">
 
 </head>
 <body>

diff --git a/team.html b/team.html
@@ -21,7 +21,7 @@
 <title>Team · Bob</title>
 <meta name="description" content="Das Team hinter Bob: Gründer Torben Riemer und ein Team, das seit über zehn Jahren interdisziplinär zusammenarbeitet.">
 <link rel="stylesheet" href="fonts/fonts.css">
-<link rel="stylesheet" href="site.css?v=202610271215">
+<link rel="stylesheet" href="site.css?v=20261027123641">
 
 </head>
 <body>
